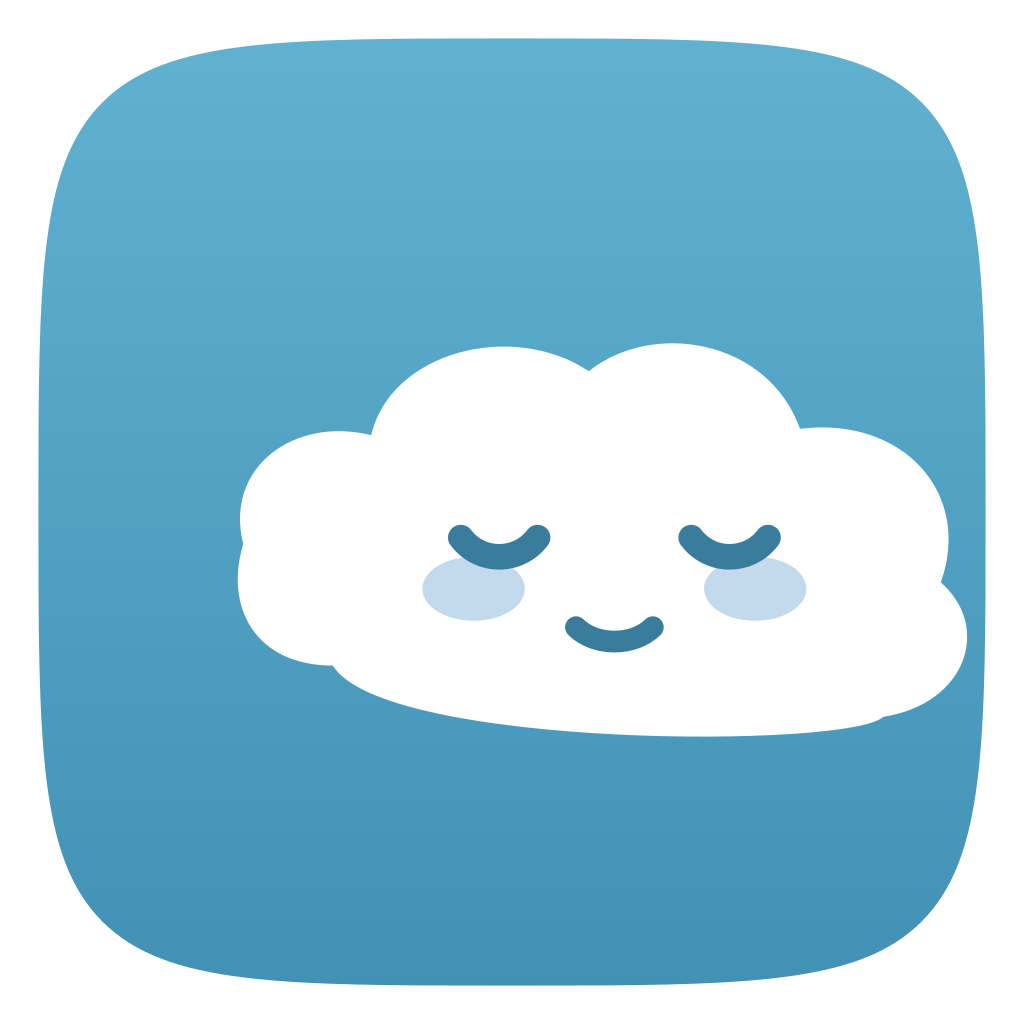
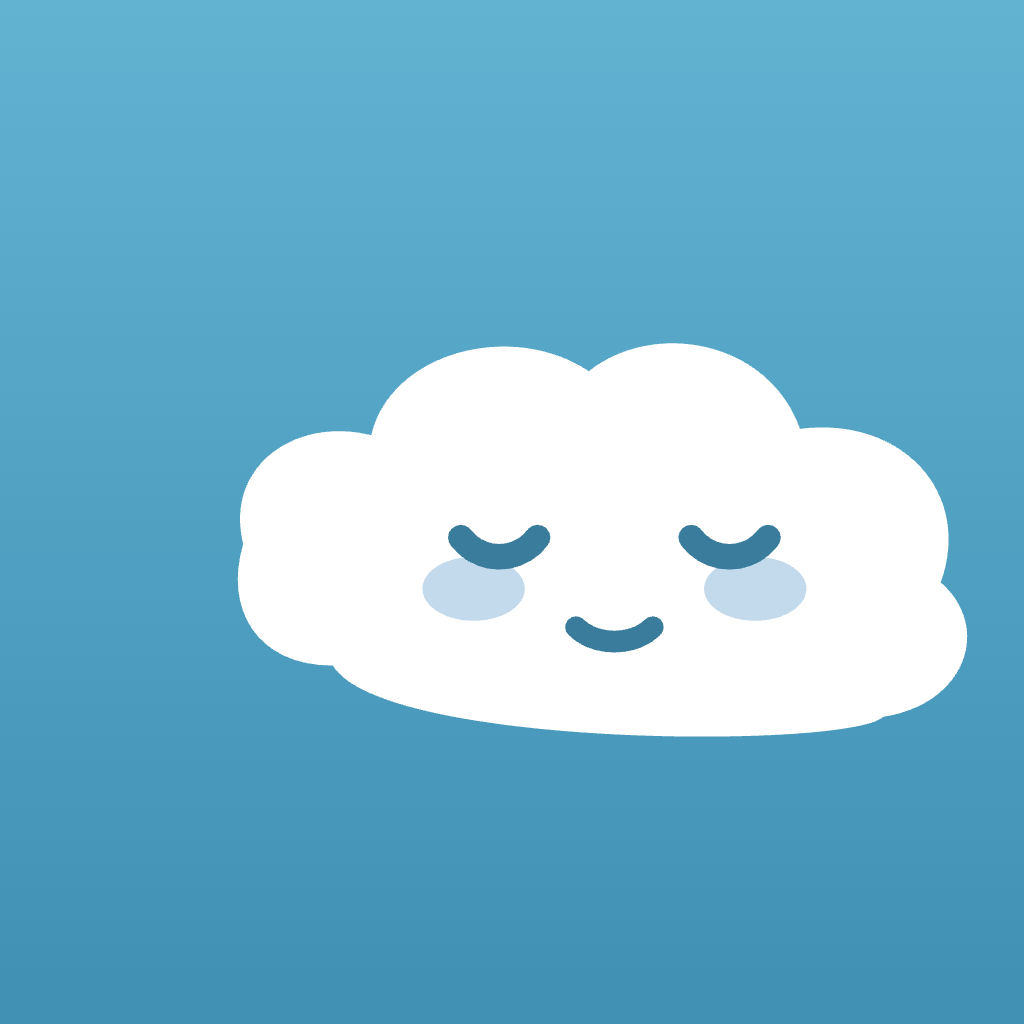
fix(mobile): アイコン系画像の白枠・色ズレをフルブリード化で解消
icon.pngはアルファチャンネル付きで角丸四角が画像内に焼き込まれ、
四隅が透明になっていた。iOS側で透明部分が白く塗られ、アプリアイコンに
白枠が出る原因になっていた。新しいicon.png（四隅まで背景色で
フルブリード化）に置き換えた。

同じ構造を持つfavicon.png（Webタブで透明部分が縁取りになる）と
splash-icon.png（Android起動画面の背景色#208AEFとわずかに違う青で
四角が浮く）も、新しいicon.pngから縮小生成して同じ問題を解消した。

Refs #15

Changed region(s): [[0.0, 0.0, 1.0, 1.0]]

diff --git a/docs/checklists/v1.0.0-pre-release-checklist.md b/docs/checklists/v1.0.0-pre-release-checklist.md
@@ -1,0 +1,93 @@
+# v1.0.0 リリース前チェックリスト（TestFlight 実機検証）
+
+> 対象リリース: v1.0.0 / 関連: #15 / 前提: #48（EASビルド・TestFlightアップロード）
+>
+> 目的: v1.0.0 をリリースする前に、TestFlightで配布したビルドを実機で操作し、利用者がストレスなく使えることを確認する。
+> 各項目を実機で確認し、`[ ]` を `[x]` に更新する。問題があれば末尾の「検出した問題」に記録する。
+
+## 検証環境
+
+| 項目 | 内容 |
+|---|---|
+| 端末 | iPhone 15 |
+| iOS バージョン | 26.5 |
+| アプリバージョン | v1.0.0 |
+| ビルド番号 | 4 |
+| 検証日 | 2026/6/28 |
+| 検証者 | nk |
+
+---
+
+## 1. インストール（完了条件: TestFlight経由でインストールできる）
+
+- [x] TestFlightアプリに対象ビルドが表示される
+- [x] 「インストール」でダウンロード・インストールが完了する
+- [x] ホーム画面にアプリアイコンが正しく表示される（アイコン・アプリ名の崩れがない）
+- [x] アプリを起動でき、スプラッシュ画面から正常にホーム画面へ遷移する
+
+## 2. 起動・初期化
+
+- [x] 起動時にスプラッシュが表示され、フォント読み込み後にコンテンツが表示される
+- [x] 初回起動で匿名サインインが完了し、エラーなくホーム画面が使える
+- [x] 天気パネルに気圧・気温・天気が表示される（位置情報の取得待ちでも最終的に表示される）
+- [x] （該当する場合）古いバージョン判定の強制アップデート案内が誤って出ない
+
+## 3. ぼやき → AI返信 → 保存（完了条件: 一連の操作がストレスなく行える）
+
+- [x] ホームでぼやき入力（チャット）を開ける
+- [x] チャットを開くとAIの初回メッセージ（例:「今日の体調はいかがですか？」）が表示される
+- [x] テキストを入力でき、キーボードで入力欄が隠れない（KeyboardAvoiding が機能している）
+- [x] 送信するとAIの返信が返ってくる（待ち時間が長すぎない・ストレスがない）
+- [x] 送信した内容が今日の記録として保存され、ホームの一覧に反映される
+- [x] 記録に体調フェイス・体調ラベル・要約が表示される
+- [ ] 1日の記録上限に達した場合の挙動が適切（上限到達時に入力が抑止される）
+- [ ] 通信失敗時にエラートースト（例:「送信に失敗しました」）が出て、アプリが落ちない
+- [ ] 連続送信・素早い操作でも UI がもたつかない・固まらない
+
+## 4. カレンダー（完了条件: 実装済み画面が問題なく表示・操作できる）
+
+- [x] カレンダータブに切り替えられる
+- [x] 当月のカレンダーが正しく表示される（曜日・日付の並びが正しい）
+- [x] 記録のある日に天気アイコン・体調フェイスが表示される
+- [x] 左スワイプで翌月、右スワイプで前月に移動できる（アニメーションが滑らか）
+- [x] 当月より先には進めない／下限（2016年1月）より前には戻れない
+- [x] 日付をタップすると詳細（体調・天気・気圧 hPa・要約）が表示される
+- [x] 記録のない日をタップしても破綻しない
+
+## 5. 設定タブ（完了条件: 実装済み画面が問題なく表示・操作できる）
+
+- [x] 設定タブに切り替えられる
+- [x] アプリバージョン（`v...`）が表示される
+- [x] 「アカウント設定」に遷移でき、ユーザーIDが表示される
+- [x] ユーザーIDのコピーが機能する
+- [x] アカウント設定から戻る操作ができる
+- [x] 「プライバシーポリシー」をタップするとブラウザでページが開く
+
+## 6. 全体品質（完了条件: 明らかな表示崩れ・クラッシュがない）
+
+- [x] タブ間の移動がスムーズで、状態が保持される
+- [x] 文字切れ・はみ出し・余白崩れなどの明らかなレイアウト崩れがない
+- [x] セーフエリア（ノッチ・ホームインジケータ）にUIが被っていない
+- [x] アプリをバックグラウンド→フォアグラウンド復帰しても状態が壊れない
+- [x] 一連の操作を通してクラッシュ・フリーズが発生しない
+- [x] （ダーク/ライト両対応の場合）表示モードを切り替えても破綻しない
+
+---
+
+## 検出した問題
+
+| # | 画面/操作 | 内容 | 重要度 | 対応 |
+|---|---|---|---|---|
+| 1 | アプリアイコン | アイコン画像に白い枠がある（アルファチャンネル付きでフルブリードになっていない） | 中 | 対応済み |
+| 7 | favicon.png | icon.pngと同じ構造（透明な四隅）で同じ現象が起きる | 低 | 対応済み（新icon.pngから再生成） |
+| 8 | splash-icon.png（Android起動画面） | 透明な四隅＋背景色とわずかに違う青で四角が浮く | 低 | 対応済み（新icon.pngから再生成） |
+| 2 | 起動/スプラッシュ | 初回以外はスプラッシュ表示が短い | 低 | 対応済み（実機ビルドで確認予定） |
+| 3 | ホーム/ぼやくボタン | 「タップしてぼやく」の文字が小さい | 中 | 対応済み |
+| 4 | ホーム画面 | 開いた直後に何をすればいいか分かりづらい（導線が弱い） | 中 | 対応済み |
+| 5 | ホーム/チャット | チャットを閉じた後、ぼやきが一覧に出るまで時差があり無反応に見える | 中 | 対応済み |
+| 6 | WeatherPanel | ダークモードで色が浮く（固定の明色グラデーション） | 中 | 対応済み |
+
+## 総合判定
+
+- [ ] すべての完了条件を満たし、検証OK（→ PR作成・close）
+- [ ] 要修正の問題あり（→ 上表に記録し、対応方針を相談）
